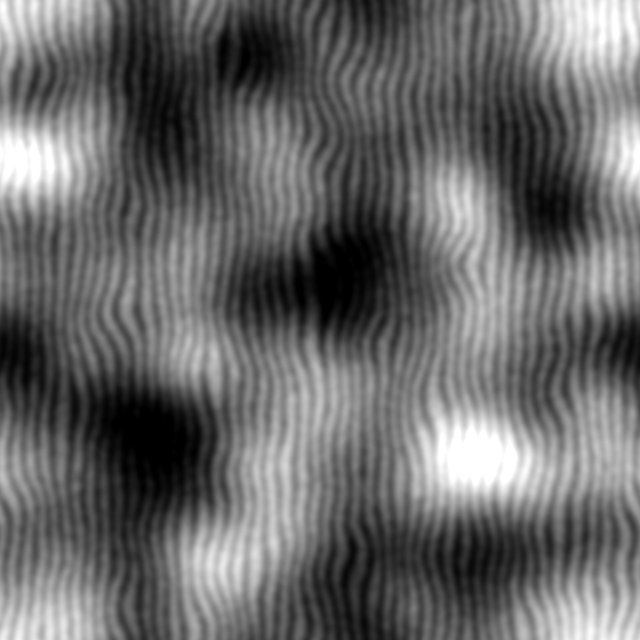
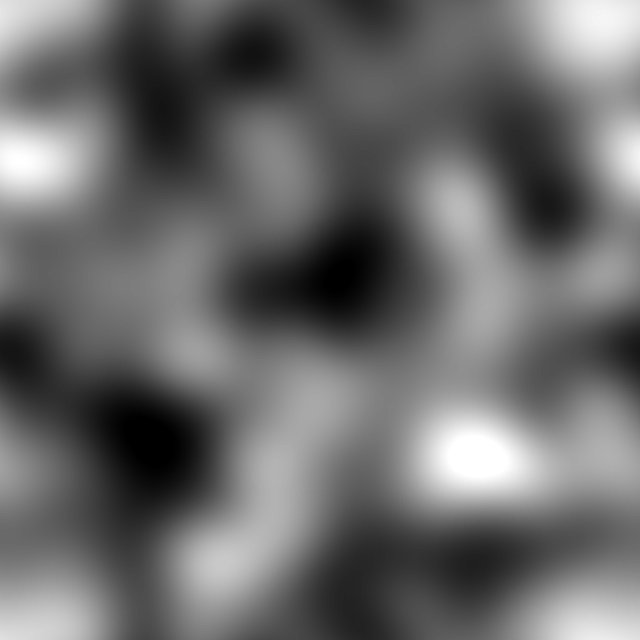
style: tarjetas de Servicios con nubes desenfocadas y rayas finas de pana, sin depender del navegador

diff --git a/app/globals.css b/app/globals.css
@@ -81,7 +81,11 @@
     animation: none;
   }
 }
-/* Centro de las tarjetas de Servicios: la misma pana ya desenfocada, con sus ondas suaves en movimiento */
+/*
+ * Tarjetas de Servicios (tema oscuro), sin depender del desenfoque del navegador:
+ * pana-soft: la pana muy desenfocada, nubes suaves que se mueven.
+ * pana-rayas: la pana nítida y casi transparente, las rayas finas que se alcanzan a ver.
+ */
 @utility pana-soft {
   position: absolute;
   inset: 0;
@@ -90,13 +94,13 @@
   pointer-events: none;
   background-image: url(/img/pana-suave.jpg), url(/img/pana-suave.jpg);
   background-size: 560px, 720px;
-  background-blend-mode: screen;
+  background-blend-mode: overlay;
   animation: pana 80s linear infinite;
-  opacity: 0.11;
+  opacity: 0.55;
+  mix-blend-mode: overlay;
   [data-theme="light"] & { display: none; }
 }
-/* Borde de las tarjetas de Servicios: la pana nítida solo en la orilla, desvaneciéndose hacia adentro */
-@utility pana-edge {
+@utility pana-rayas {
   position: absolute;
   inset: 0;
   z-index: -1;
@@ -106,10 +110,7 @@
   background-size: 560px, 720px;
   background-blend-mode: screen;
   animation: pana 80s linear infinite;
-  opacity: 0.35;
-  mask-image:
-    linear-gradient(90deg, #000, transparent 38px, transparent calc(100% - 38px), #000),
-    linear-gradient(#000, transparent 38px, transparent calc(100% - 38px), #000);
+  opacity: 0.1;
   [data-theme="light"] & { display: none; }
 }
 @keyframes pana {

diff --git a/components/r/ServicesR.tsx b/components/r/ServicesR.tsx
@@ -27,7 +27,7 @@ const brand = (n: TechIconName) => {
 export default function ServicesR() {
   const odd = services.length % 2 === 1;
   return (
-    <section id="servicios" className="tx pana [--txk:1.4] light:[--txk:2] py-[clamp(90px,11vw,170px)]">
+    <section id="servicios" className="tx pana [--txk:1] light:[--txk:2] py-[clamp(90px,11vw,170px)]">
       <div className="wrap">
         <div className={cx(lab, "rv")}>
           <b>(03)</b> Servicios
@@ -66,9 +66,9 @@ export default function ServicesR() {
                     )}
                   />
                 )}
-                {/* Pana viva: desenfocada en el centro y nítida en la orilla de la tarjeta */}
+                {/* Pana viva dentro de la tarjeta: nubes desenfocadas y rayas finas */}
                 <span aria-hidden="true" className="pana-soft" />
-                <span aria-hidden="true" className="pana-edge" />
+                <span aria-hidden="true" className="pana-rayas" />
                 <div
                   className={cx(
                     wide &&
